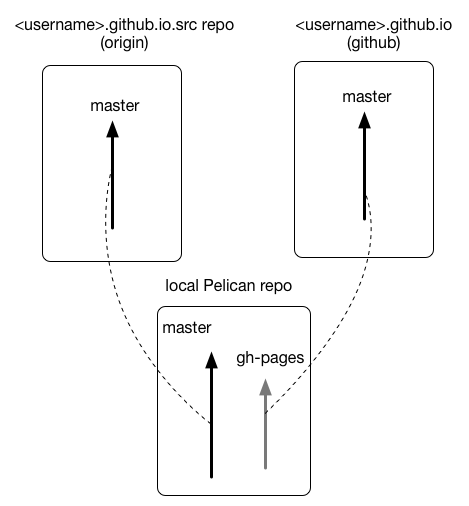
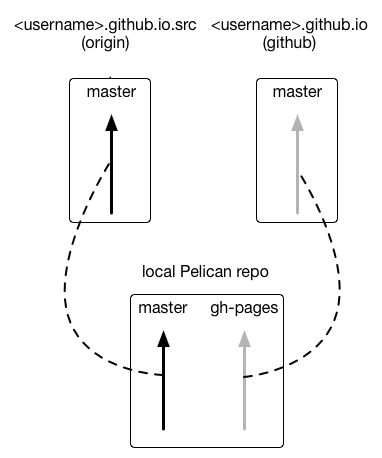
update figures

diff --git a/content/build-pelican-blog-on-github-page.md b/content/build-pelican-blog-on-github-page.md
@@ -1,12 +1,16 @@
 Title: 用 Pelican 在 GitHub 上建立 Blog
 Date: 2016-06-02 16:00
+Modified: 2016-06-04 10:22
 Category: Note
 Tags: pelican, blog, git, python 
 Slug: build-blog-on-github-pages-using-pelican 
 Author: Hau Hsu
-Summary: Build blog on GitHub Pages using Pelican
 Status: published
 
+這篇教學會在你的電腦上建立一個 Pelican 的專案，並且用 git repo
+來做版本管理。而在 GitHub 上我們會建立兩個 repo，一個用來存 Pelican
+專案的程式碼，讓我們可以在不同的電腦上編輯和發布文章；另一個 repo 是 GitHub User
+Page，用來放架好的網站。
 
 ## GitHub Pages 簡介
 GitHub 有提供一個簡單的方法讓使用者架設個人網站 (User Pages) 或專案網站 (Project Pages)。
@@ -20,7 +24,7 @@ GitHub 有提供一個簡單的方法讓使用者架設個人網站 (User Pages)
 Pelican 產生出來的靜態網頁會放在 output 資料夾，所以只要把 output 內的東西放到你個人網站的 repo 的 master branch 就行了。
 在 Pelican 的官方文件中，[有一段](http://docs.getpelican.com/en/3.6.3/tips.html#publishing-to-github  )是說明如何將產生出來的靜態網頁放上 Github pages。文件的做法是利用 [ghp-import](https://github.com/davisp/ghp-import) 這個小工具，他可以幫你把某個資料夾的內容更新到當本地端 repo 的 gh-pages branch。
 
-``` 
+``` shell
 $ pelican content -o output -s pelicanconf.py
 $ ghp-import output
 $ git push git@github.com:<username>/<username>.github.io.git gh-pages:master
@@ -38,14 +42,14 @@ $ git push git@github.com:<username>/<username>.github.io.git gh-pages:master
 ### 建立 Pelican project
 先在你想要建立專案的地方建立一個資料夾，我先假設你要建在家目錄下的 blog 資料夾： 
 
-```
+``` shell
 $ mkdir ~/blog
 $ cd ~/blog
 $ pelican-quickstart
 ```
 接著會有一個簡單的終端機互動介面，給你一些選項讓你設定。以下是我的輸入，有些資訊請記得根據自己的需要修改，中括弧內的字是預設的選項，如果我沒有打任何字就是直接按 enter 使用預設值：
 
-```
+``` 
 Welcome to pelican-quickstart v3.6.3.
 
 This script will help you create a new Pelican-based website.
@@ -61,7 +65,7 @@ needed by Pelican.
 ```
 注意這邊要輸入你自己的 GitHub User Page 的網址
 
-```
+``` 
 > Do you want to specify a URL prefix? e.g., http://example.com   (Y/n) y                       
 > What is your URL prefix? (see above example; no trailing slash) http://hauhsu.github.io 
 > Do you want to enable article pagination? (Y/n) y
@@ -77,7 +81,7 @@ needed by Pelican.
 ```
 當問到你會不會用 GitHub Pages 的時候要選 y
 
-```
+``` shell
 > Do you want to upload your website using GitHub Pages? (y/N) y
 > Is this your personal page (username.github.io)? (y/N) y
 Done. Your new project is available at ~/blog 
@@ -85,7 +89,7 @@ Done. Your new project is available at ~/blog
 
 然後隨便 po 一篇文，也就是在 content 資料夾中建立一個文件叫 `first_post.md` ，並把以下的內容貼到裡面。
 
-```
+``` 
 Title: My super title
 Date: 2016-05-30 22:34
 Category: Python
@@ -100,7 +104,7 @@ This is the content of my super blog post.
 
 接著用 Pelican 給的 makefile 生出靜態網頁，並且開啟簡單的 http 伺服器讓你可以透過瀏覽器預覽結果：
 
-```
+``` shell
 $ make html && make serve
 Done: Processed 1 article, 0 drafts, 0 pages and 0 hidden pages in 0.23 seconds.
 cd /Users/howardxu/Test/pelican/output && python -m pelican.server
@@ -114,7 +118,7 @@ cd /Users/howardxu/Test/pelican/output && python -m pelican.server
 ### 建立 Pelican 專案的 repo 
 現在我們為這個 project 建立一個 repo，並且提交 pelican 專案中的檔案和第一篇文章的 markdown 檔：
 
-```
+``` shell
 $ git init
 $ git add Makefile develop_server.sh *.py content/
 $ git commit -m "first commit"
@@ -130,14 +134,14 @@ $ git commit -m "first commit"
 
 ```
 $ cd ~/blog
-$ git remote add origin <username>.github.io.src
-$ git remote add github <username>.github.io
+$ git remote add origin git@github.com:<username>/<username>.github.io.src.git
+$ git remote add github git@github.com:<username>/<username>.github.io.git 
 ```
 
 ### 發布文章到 GitHub User Page
 現在我們可以照著 Pelican 文件的方法，將 output 的檔案上傳到 GitHub。由於我們已經將 GitHub User Page 的 repo 加入 remote，所以可以少打一些字：
 
-```
+``` shell
 $ ghp-import output
 $ git push github gh-pages:master
 ```
@@ -150,15 +154,13 @@ $ git push github gh-pages:master
 
 <img src="images/repo_relationship.png" />
 
-在 local 端會有兩個 branch：master & ph-pages，ph-pages 是 `ghp-import` 幫我們建的而且我們不必手動更新這個 branch，而是透過 `ghp-impott output` 這個指令更新。
+在 local 端會有兩個 branch：master & ph-pages，ph-pages 是 `ghp-import` 幫我們建的而且我們不必手動更新這個 branch，而是透過 `ghp-import output` 這個指令更新。
 
-### 上傳 source 的更新
-如果想要在另一台電腦上寫文章和發布，兩台電腦的 Pelican project 必須同步，這時候就可以利用 <username>.github.io.src。要將現在這台電腦的 Pelican project 更新至 GitHub，可以提交以後直接下 `$ git push origin` 的指令，當然如果 GitHub 上有還沒有同步的內容，必須先 pull 下來、merge 以後再 push（基本的 git 操作）。
 
 ### 改寫 Makefile 讓發布文章更容易
 Pelican 自動產生的 makefile 中有一個 github 的 target，這個是用在發佈 GitHub Project  Page 的。現在因為我們是 User Page，所以我們來小小改寫一下，讓他符合我們的發佈動作。打開 Makefile 之後找到 github 這個 target：
 
-```
+``` makefile
 github: publish
 	ghp-import -m "Generate Pelican site" -b $(GITHUB_PAGES_BRANCH) $(OUTPUTDIR)
 	git push origin $(GITHUB_PAGES_BRANCH)
@@ -166,10 +168,45 @@ github: publish
 
 把它改成：
 
-```
+``` makefile
 github: publish
 	ghp-import -m "Generate Pelican site" output
 	git push github gh-pages:master
 ```
 存檔。
 之後要發布文章，就只要下 `$ make github` 就可以囉！
+
+### 在另一台電腦上編輯/發布文章
+
+如果想要在另一台電腦上寫文章和發布，兩台電腦的 Pelican project 必須同步，而且要將上面提到的關係在另一台電腦上重建。
+
+<img src="images/repo_relationship_2_computers.png" />
+
+
+首先將現在這台電腦的 Pelican project 更新至 GitHub，可以提交以後直接下 
+`$ git push origin` 的指令。
+
+在另一台電腦上，我們先將 &lt;username&gt;.github.io.src clone 下來：
+
+``` shell
+$ git clone <username>.github.io.src
+```
+
+接著我們要重建每個 repo 間的關係。
+首先將 &lt;username&gt;.github.io 加入 remote 並且 fetch：
+
+``` shell
+$ git remote add github git@github.com:<username>/<username>.github.io.git 
+$ git fetch github
+```
+
+讓 ph-pages 這個 branch 追蹤 &lt;username&gt;.github.io.git 的 master branch：
+
+``` shell
+$ git branch --track gh-pages github/master
+```
+
+到這邊我們就已經在另一台電腦上把上面那張 repo 關係圖重建完成。
+要預覽或發布文章，一樣用之前的 make 指令即可！
+
+
